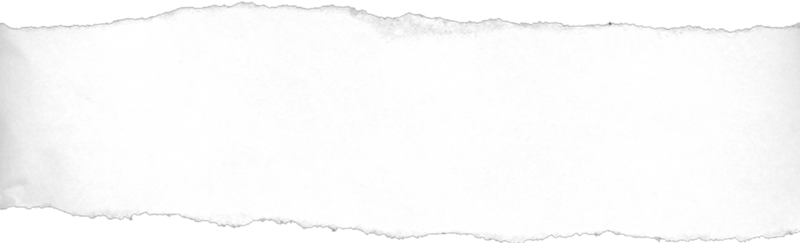
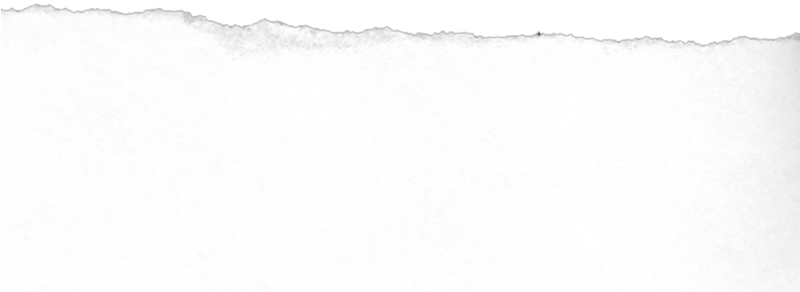
[modify]テーマ選択の見た目の変化

diff --git a/WebContent/idraw.css b/WebContent/idraw.css
@@ -131,7 +131,7 @@ li {
     height: 50px;
 }
 
-div.console1{
+div.Paper{
 	position: absolute;
 	top: 600px;
     width: 800px;
@@ -139,12 +139,22 @@ div.console1{
     background-image:url("images/torn.png");
     background-repeat: no-repeat;
 }
-div.console2{
+div.Modern{
 	position: absolute;
 	top: 600px;
     width: 800px;
     height: 100px;
     background-color: grey;
+}
+#panel_theme{
+	position: absolute;
+	top:10px;
+	left:15px;
+}
+#select_theme{
+	position: absolute;
+	top:0px;
+	left:50px;
 }
 #palette{
 	position: absolute;
